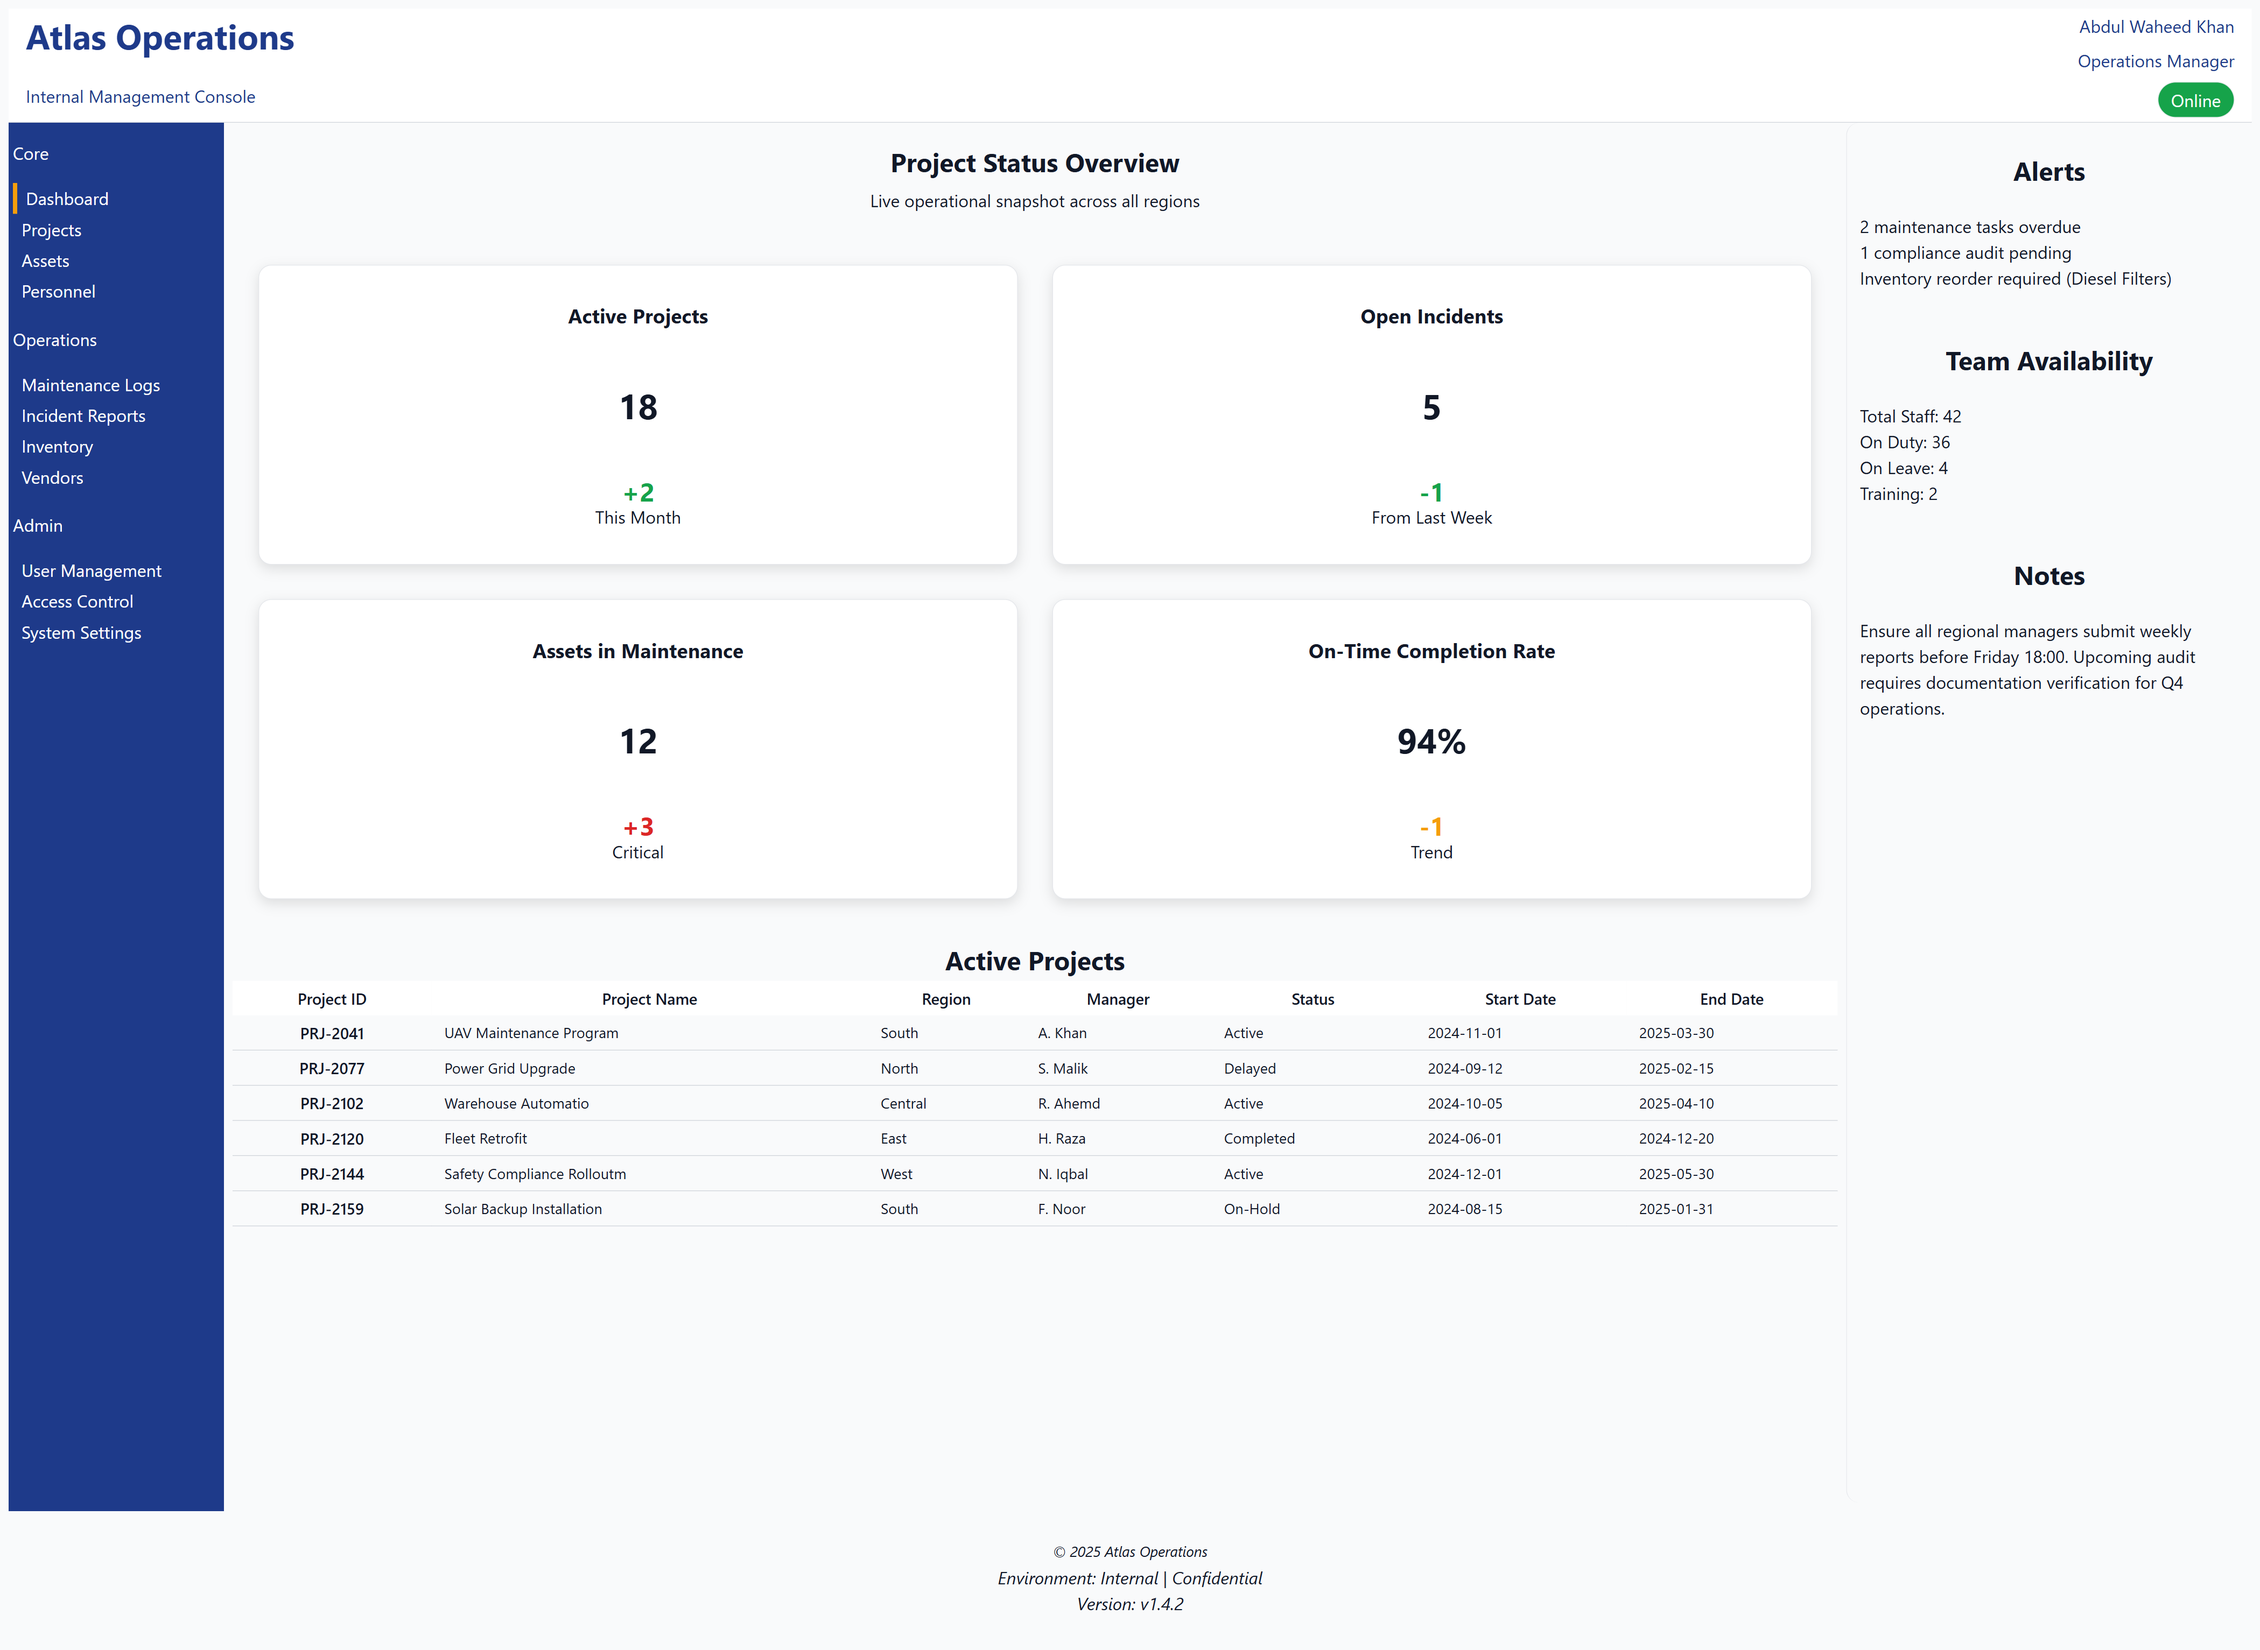
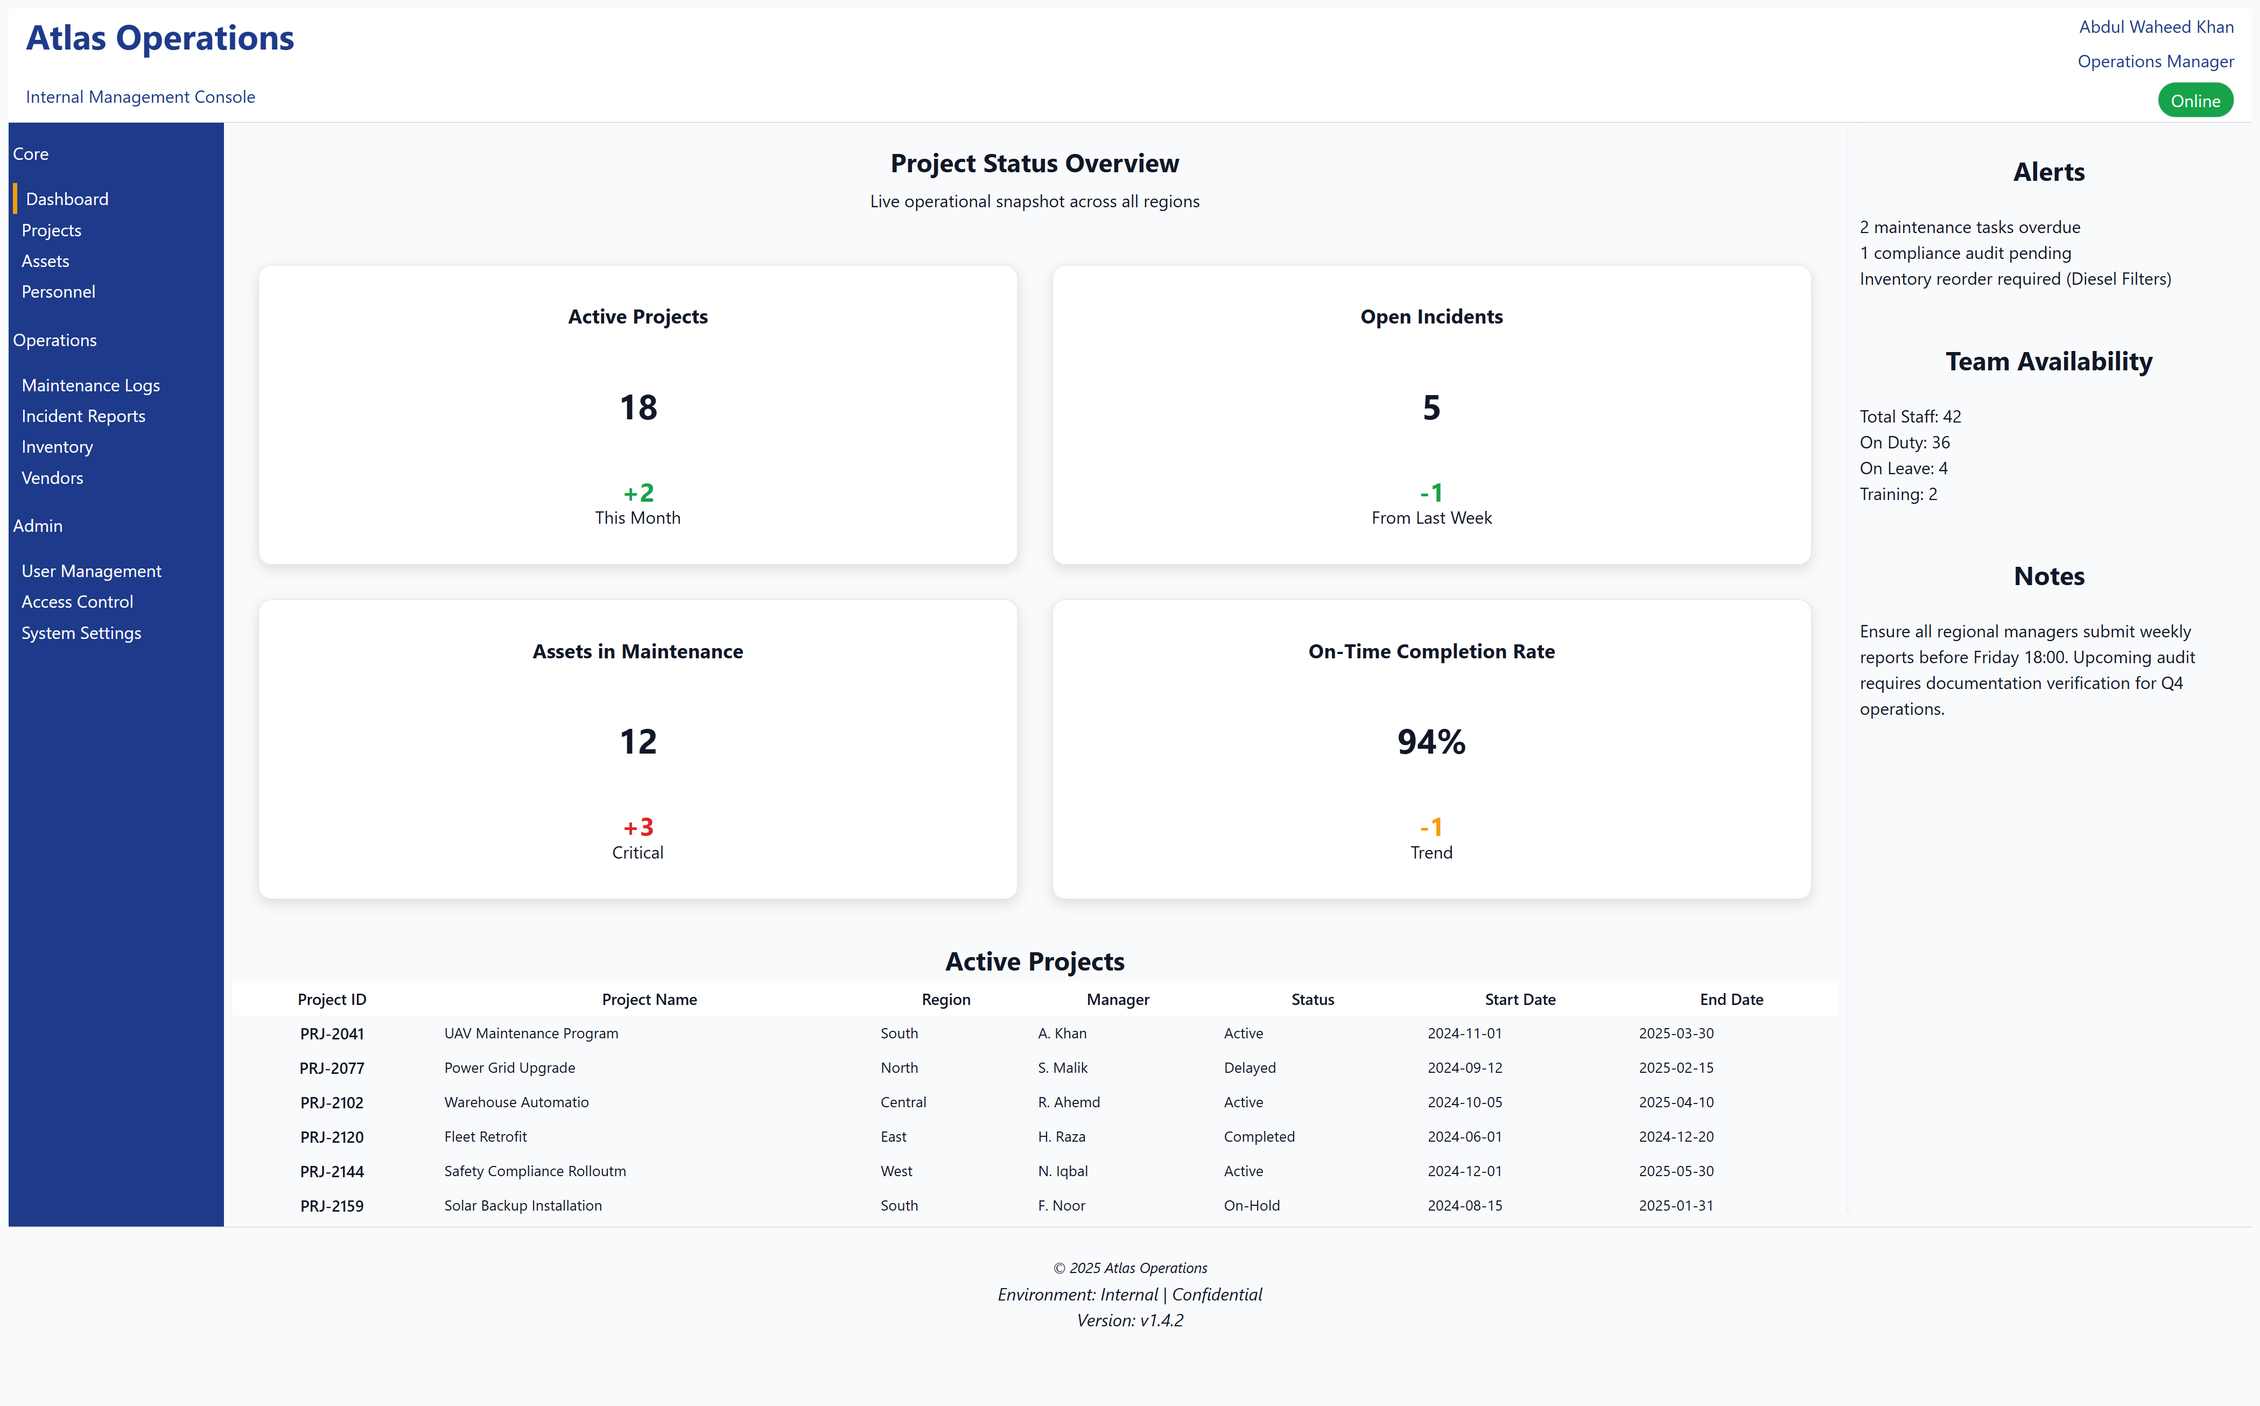
fixed hieght of left sidebar and separator for footer

diff --git a/style.css b/style.css
@@ -33,6 +33,7 @@ body {
   text-shadow: none;
   color: var(--text-primary);
   background-color: var(--bg-main);
+  min-height: 100vh;
 }
 
 /*header*/
@@ -87,7 +88,6 @@ body {
 .sidebar {
   color: var(--inverted-text);
   background-color: var(--brand-primary);
-  min-height: 100vh;
 }
 .sidebar * {
   color: inherit;
@@ -185,9 +185,7 @@ caption {
 thead tr {
   background-color: var(--bg-cards);
 }
-tbody tr {
-  border-bottom: var(--border-main);
-}
+
 table th {
   font-size: 0.9rem;
   font-weight: 600;
@@ -231,6 +229,7 @@ h2 {
 .footer-content {
   text-align: center;
   padding: 1.5rem 0;
+  border-top: var(--border-main);
 }
 /*INTERACTIVE*/
 .subnav-item:hover {

diff --git a/README.md b/README.md
@@ -11,6 +11,14 @@ Designed to demonstrate strong fundamentals in **semantic HTML, layout architect
 
 ---
 
+## 🖼 Screenshots
+
+### Dashboard Overview
+
+![Internal Management Console Dashboard](screenshot.png)
+
+---
+
 ## ✨ Features
 
 - Semantic HTML5 structure (`header`, `nav`, `main`, `section`, `table`, `footer`)
